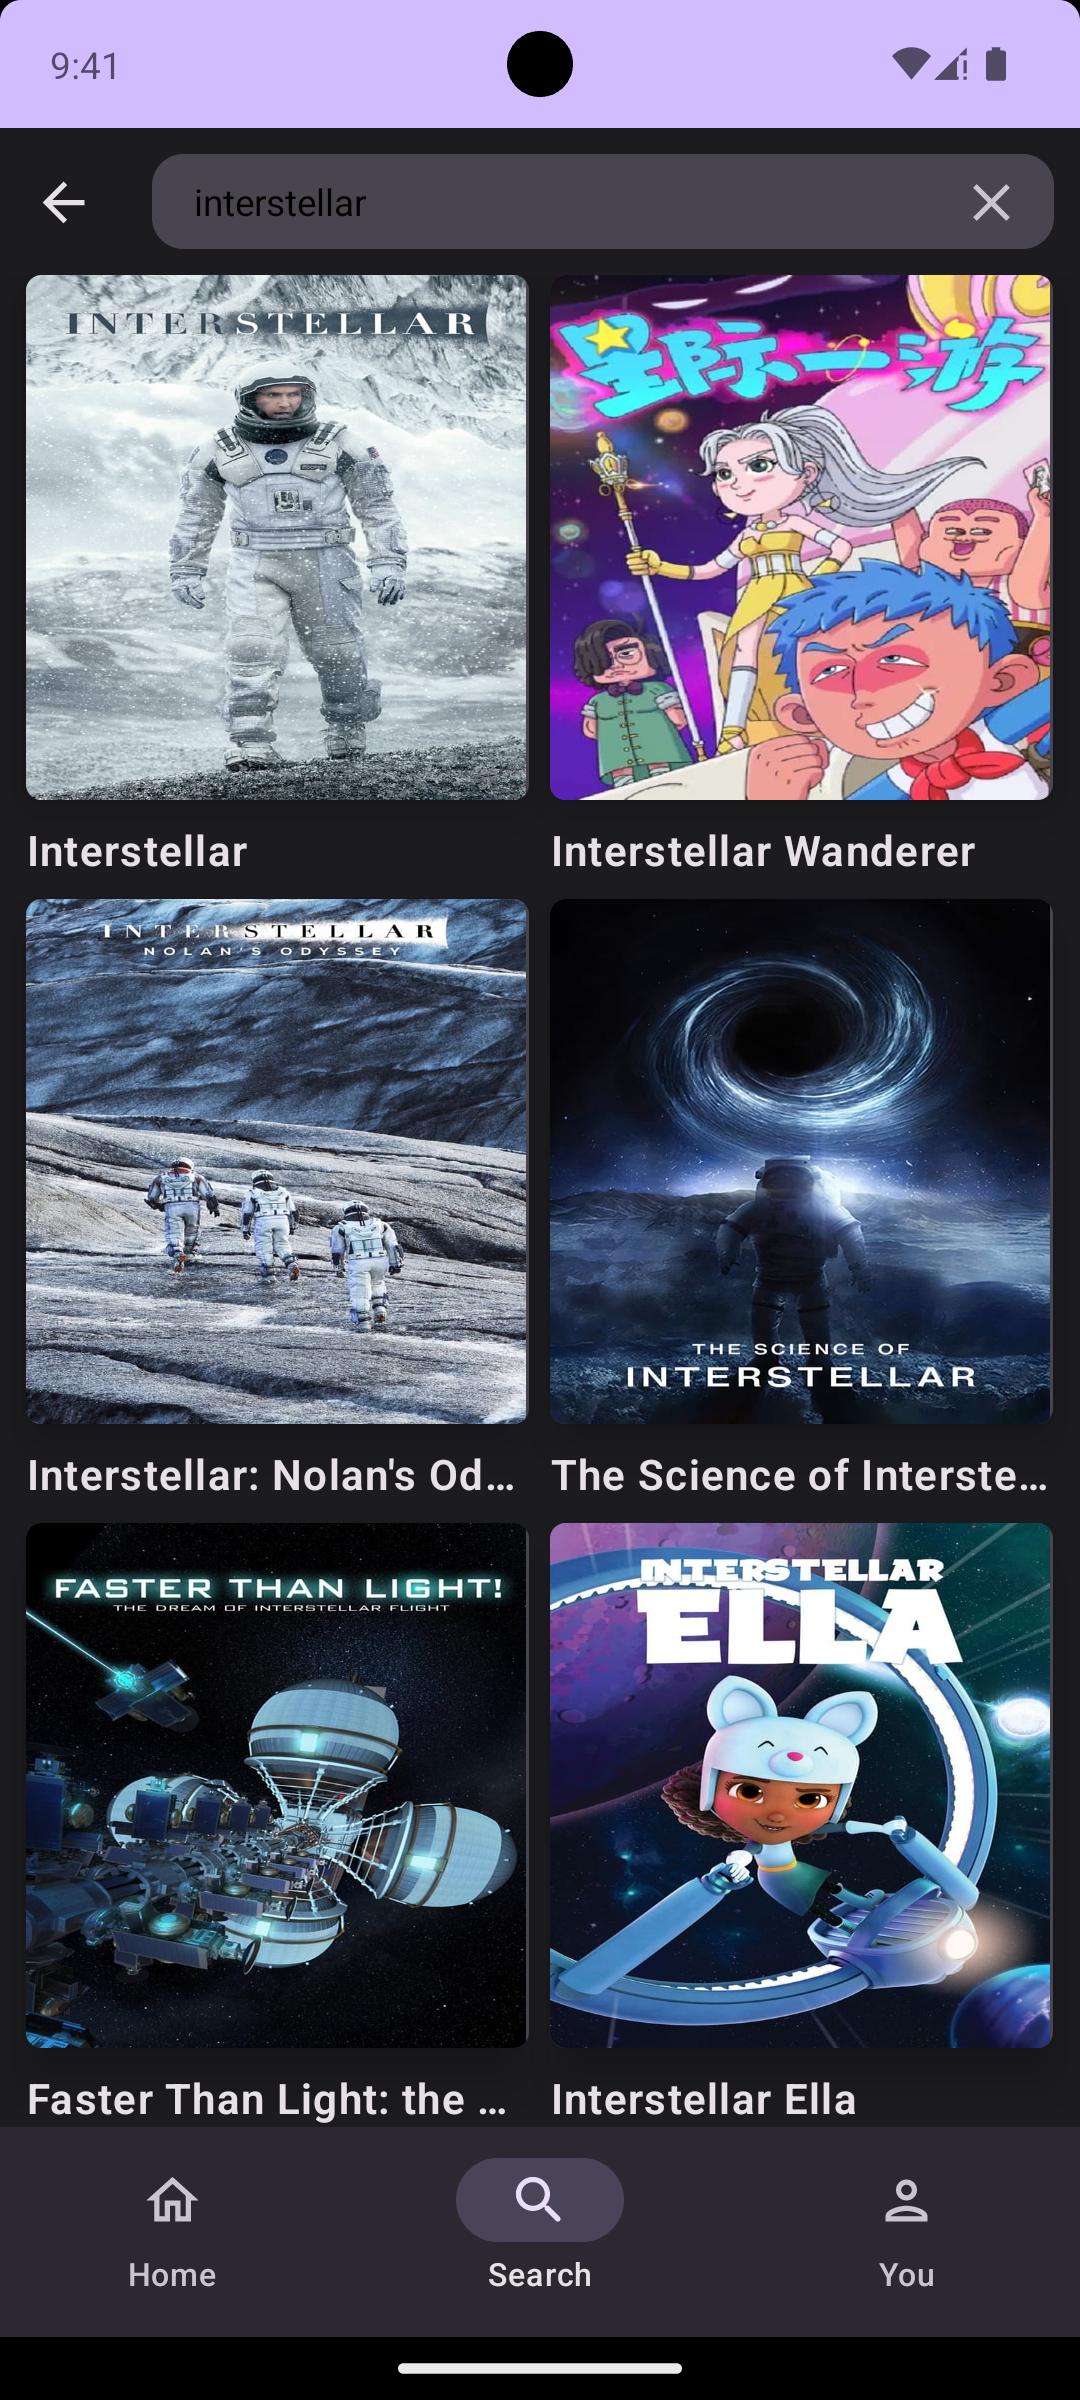
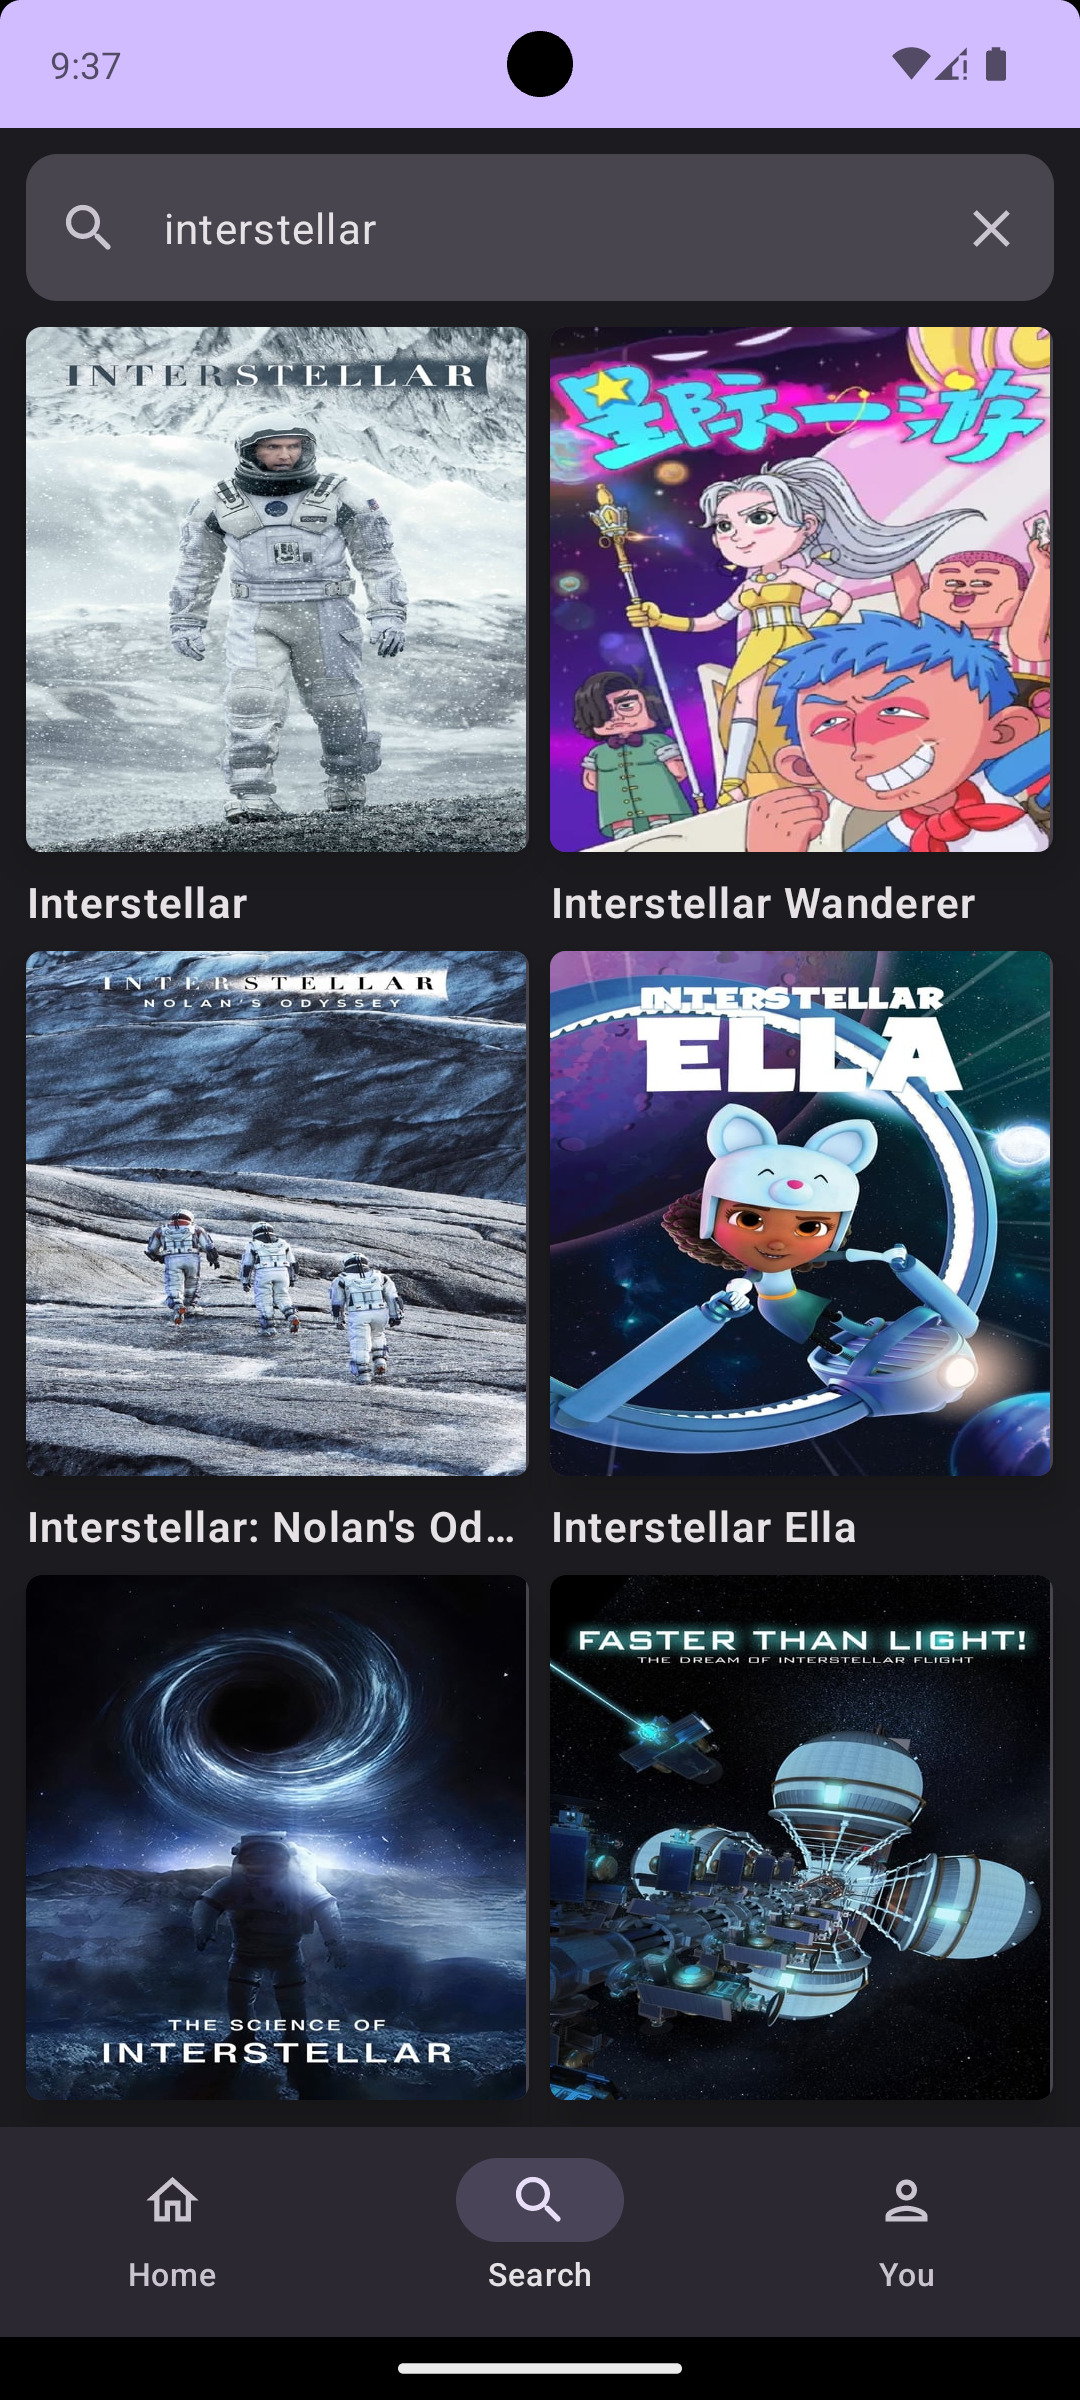
modify search bar

diff --git a/core/ui/src/main/java/com/anshtya/core/ui/SearchBar.kt b/core/ui/src/main/java/com/anshtya/core/ui/SearchBar.kt
@@ -1,128 +1,73 @@
 package com.anshtya.core.ui
 
-import androidx.activity.compose.BackHandler
-import androidx.compose.foundation.interaction.MutableInteractionSource
 import androidx.compose.foundation.layout.fillMaxWidth
-import androidx.compose.foundation.layout.height
+import androidx.compose.foundation.layout.padding
 import androidx.compose.foundation.shape.RoundedCornerShape
-import androidx.compose.foundation.text.BasicTextField
-import androidx.compose.foundation.text.KeyboardActions
-import androidx.compose.foundation.text.KeyboardOptions
 import androidx.compose.material.icons.Icons
 import androidx.compose.material.icons.filled.Clear
-import androidx.compose.material3.ExperimentalMaterial3Api
+import androidx.compose.material.icons.rounded.Search
 import androidx.compose.material3.Icon
 import androidx.compose.material3.IconButton
-import androidx.compose.material3.MaterialTheme
 import androidx.compose.material3.Text
-import androidx.compose.material3.TextFieldColors
+import androidx.compose.material3.TextField
 import androidx.compose.material3.TextFieldDefaults
 import androidx.compose.runtime.Composable
-import androidx.compose.runtime.LaunchedEffect
-import androidx.compose.runtime.getValue
-import androidx.compose.runtime.mutableStateOf
-import androidx.compose.runtime.remember
-import androidx.compose.runtime.setValue
 import androidx.compose.ui.Modifier
-import androidx.compose.ui.focus.FocusRequester
-import androidx.compose.ui.focus.focusRequester
-import androidx.compose.ui.focus.onFocusChanged
 import androidx.compose.ui.graphics.Color
-import androidx.compose.ui.platform.LocalFocusManager
 import androidx.compose.ui.res.stringResource
-import androidx.compose.ui.text.input.ImeAction
-import androidx.compose.ui.text.input.TextFieldValue
-import androidx.compose.ui.text.input.VisualTransformation
+import androidx.compose.ui.text.style.TextOverflow
 import androidx.compose.ui.tooling.preview.Preview
 import androidx.compose.ui.unit.dp
 
-@OptIn(ExperimentalMaterial3Api::class)
 @Composable
 fun MovieInfoSearchBar(
     value: String,
     onQueryChange: (String) -> Unit,
-    onSearch: () -> Unit,
-    active: Boolean,
-    onActiveChange: (Boolean) -> Unit,
-    modifier: Modifier = Modifier,
-    enabled: Boolean = true,
-    colors: TextFieldColors = TextFieldDefaults.colors(
-        focusedIndicatorColor = Color.Transparent,
-        unfocusedIndicatorColor = Color.Transparent,
-        unfocusedContainerColor = MaterialTheme.colorScheme.surfaceVariant,
-        focusedContainerColor = MaterialTheme.colorScheme.surfaceVariant
-    ),
-    interactionSource: MutableInteractionSource = remember { MutableInteractionSource() },
 ) {
-    val focusManager = LocalFocusManager.current
-    val focusRequester = remember { FocusRequester() }
-
-    var textFieldValueState by remember { mutableStateOf(TextFieldValue(text = value)) }
-    val textFieldValue = textFieldValueState.copy(text = value)
-
-    BasicTextField(
-        value = textFieldValue,
-        onValueChange = { newTextFieldValueState ->
-            textFieldValueState = newTextFieldValueState
-            onQueryChange(newTextFieldValueState.text)
-        },
-        keyboardOptions = KeyboardOptions(imeAction = ImeAction.Search),
-        keyboardActions = KeyboardActions(onSearch = {
-            if (value.isNotEmpty()) {
-                onSearch()
-                onActiveChange(false)
-            }
-        }),
-        maxLines = 1,
-        modifier = modifier
-            .fillMaxWidth()
-            .height(42.dp)
-            .focusRequester(focusRequester)
-            .onFocusChanged { if (it.isFocused) onActiveChange(true) }
-    ) { innerTextField ->
-        TextFieldDefaults.DecorationBox(
-            value = textFieldValue.text,
-            innerTextField = innerTextField,
-            enabled = enabled,
-            singleLine = true,
-            colors = colors,
-            shape = RoundedCornerShape(12.dp),
-            visualTransformation = VisualTransformation.None,
-            interactionSource = interactionSource,
-            placeholder = { if (textFieldValue.text.isEmpty()) Text(stringResource(id = R.string.search)) },
-            trailingIcon = {
-                if (textFieldValue.text.isNotEmpty() && active) {
-                    IconButton(onClick = { onQueryChange("") }) {
-                        Icon(
-                            imageVector = Icons.Default.Clear,
-                            contentDescription = stringResource(id = R.string.clear)
-                        )
-                    }
-                }
-            },
-            contentPadding = TextFieldDefaults.contentPaddingWithoutLabel(
-                top = 0.dp, bottom = 0.dp
+    TextField(
+        value = value,
+        onValueChange = onQueryChange,
+        shape = RoundedCornerShape(12.dp),
+        colors = TextFieldDefaults.colors(
+            focusedIndicatorColor = Color.Transparent,
+            unfocusedIndicatorColor = Color.Transparent,
+            disabledIndicatorColor = Color.Transparent,
+        ),
+        leadingIcon = {
+            Icon(
+                imageVector = Icons.Rounded.Search,
+                contentDescription = null
             )
-        )
-    }
-
-    LaunchedEffect(active) {
-        if (!active) focusManager.clearFocus()
-    }
-
-    BackHandler(enabled = active) {
-        onActiveChange(false)
-    }
+        },
+        trailingIcon = {
+            if (value.isNotEmpty()) {
+                IconButton(onClick = { onQueryChange("") }) {
+                    Icon(
+                        imageVector = Icons.Default.Clear,
+                        contentDescription = stringResource(id = R.string.clear)
+                    )
+                }
+            }
+        },
+        placeholder = {
+            Text(
+                text = stringResource(id = R.string.search_placeholder),
+                maxLines = 1,
+                overflow = TextOverflow.Ellipsis
+            )
+        },
+        singleLine = true,
+        modifier = Modifier
+            .fillMaxWidth()
+            .padding(10.dp)
+    )
 }
 
 @Composable
 @Preview
-fun MovieInfoSearchBarPreview() {
+private fun MovieInfoSearchBarPreview() {
     MovieInfoSearchBar(
-        value = "query",
-        onQueryChange = {},
-        onSearch = {},
-        active = true,
-        onActiveChange = {}
+        value = "",
+        onQueryChange = {}
     )
 }

diff --git a/feature/search/src/main/java/com/anshtya/feature/search/SearchScreen.kt b/feature/search/src/main/java/com/anshtya/feature/search/SearchScreen.kt
@@ -13,23 +13,16 @@ import androidx.compose.foundation.lazy.grid.GridCells
 import androidx.compose.foundation.lazy.grid.LazyVerticalGrid
 import androidx.compose.foundation.lazy.grid.items
 import androidx.compose.foundation.lazy.items
-import androidx.compose.material3.MaterialTheme
 import androidx.compose.material3.Text
 import androidx.compose.runtime.Composable
 import androidx.compose.runtime.getValue
-import androidx.compose.runtime.mutableStateOf
-import androidx.compose.runtime.saveable.rememberSaveable
-import androidx.compose.runtime.setValue
-import androidx.compose.ui.Alignment
 import androidx.compose.ui.Modifier
 import androidx.compose.ui.platform.LocalContext
-import androidx.compose.ui.res.stringResource
-import androidx.compose.ui.text.font.FontWeight
 import androidx.compose.ui.unit.dp
 import androidx.hilt.navigation.compose.hiltViewModel
 import androidx.lifecycle.compose.collectAsStateWithLifecycle
 import com.anshtya.core.model.SearchItem
-import com.anshtya.core.ui.MovieInfoTopSearchAppBar
+import com.anshtya.core.ui.MovieInfoSearchBar
 
 @Composable
 internal fun SearchRoute(
@@ -61,8 +54,6 @@ internal fun SearchScreen(
     onSearchResultClick: (String) -> Unit,
     onErrorShown: () -> Unit
 ) {
-    var showSearchSuggestions by rememberSaveable { mutableStateOf(false) }
-
     val context = LocalContext.current
     showError?.let {
         Toast.makeText(context, context.getString(R.string.error), Toast.LENGTH_SHORT).show()
@@ -70,20 +61,14 @@ internal fun SearchScreen(
     }
 
     Column(Modifier.fillMaxSize()) {
-        MovieInfoTopSearchAppBar(
-            query = searchQuery,
-            onQueryChange = { onSearchQueryChange(it) },
-            onSearch = {},
-            onBackClick = {
-                showSearchSuggestions = false
-                onBack()
-            },
-            active = showSearchSuggestions,
-            onActiveChange = { showSearchSuggestions = it }
+        MovieInfoSearchBar(
+            value = searchQuery,
+            onQueryChange = { onSearchQueryChange(it) }
         )
-        if (showSearchSuggestions) {
+
+        if (searchQuery.isNotEmpty()) {
             BackHandler {
-                showSearchSuggestions = false
+                onSearchQueryChange("")
                 onBack()
             }
 
@@ -118,23 +103,14 @@ private fun SearchHistoryContent(
     history: List<String>
 ) {
     Box(Modifier.fillMaxSize()) {
-        if (history.isEmpty()) {
-            Text(
-                text = stringResource(id = R.string.search_text),
-                style = MaterialTheme.typography.bodyLarge,
-                fontWeight = FontWeight.Bold,
-                modifier = Modifier.align(Alignment.TopCenter)
-            )
-        } else {
-            LazyColumn(
-                contentPadding = PaddingValues(10.dp),
-                modifier = Modifier.fillMaxSize()
+        LazyColumn(
+            contentPadding = PaddingValues(10.dp),
+            modifier = Modifier.fillMaxSize()
+        ) {
+            items(
+                items = history
             ) {
-                items(
-                    items = history
-                ) {
-                    Text(it)
-                }
+                Text(it)
             }
         }
     }
